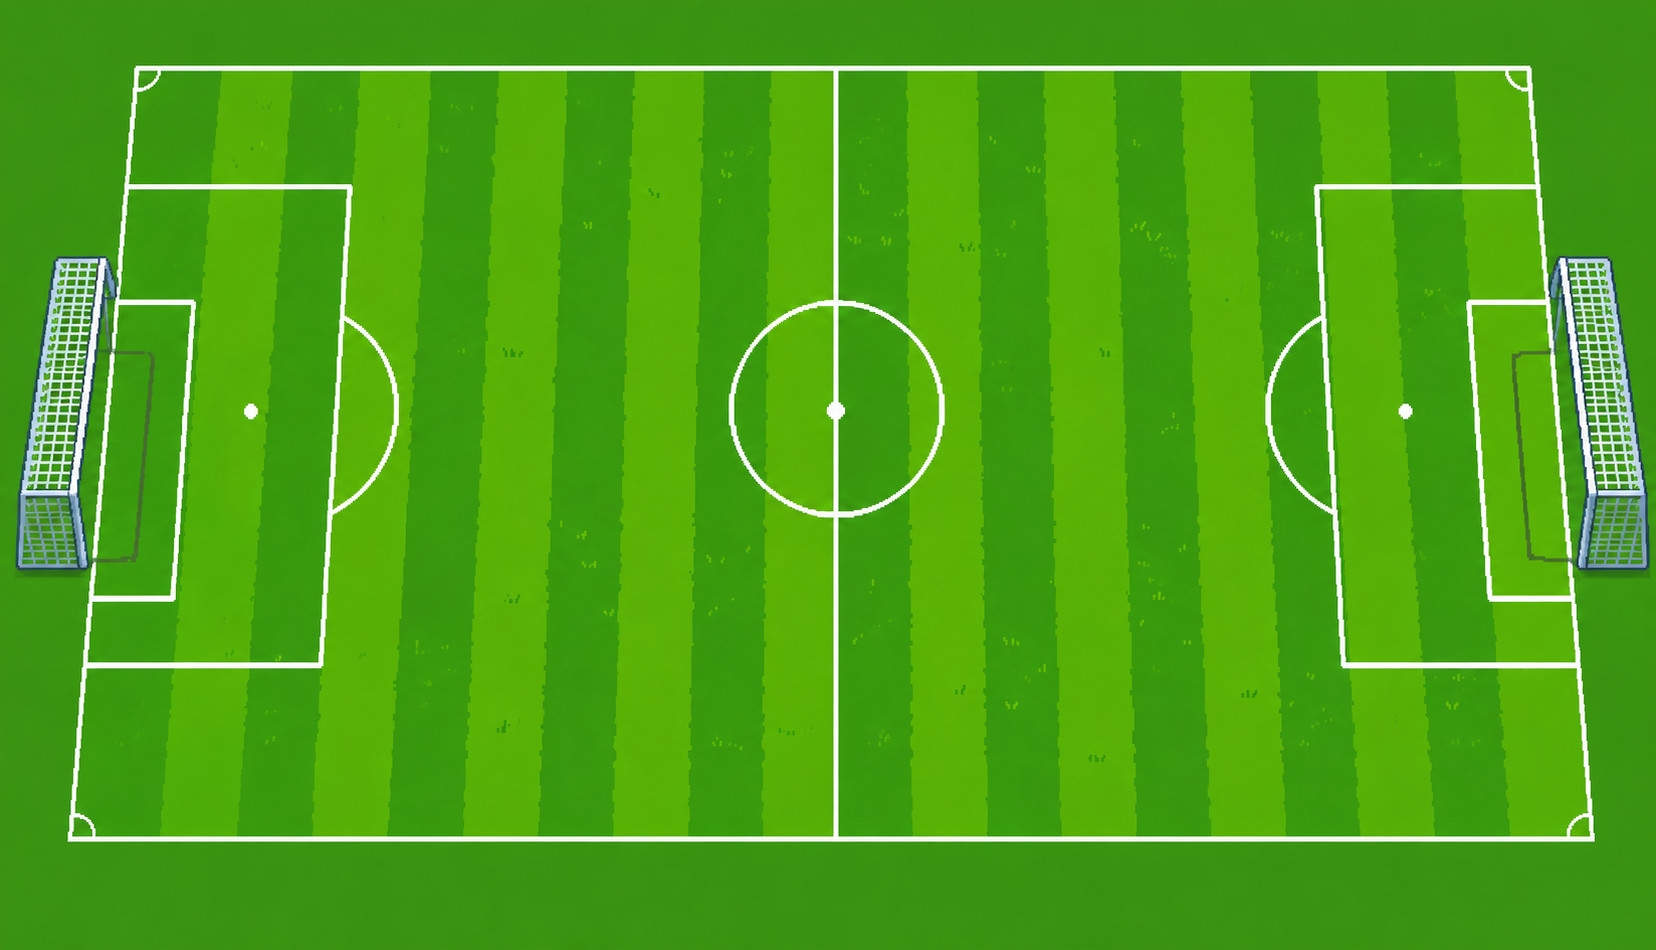
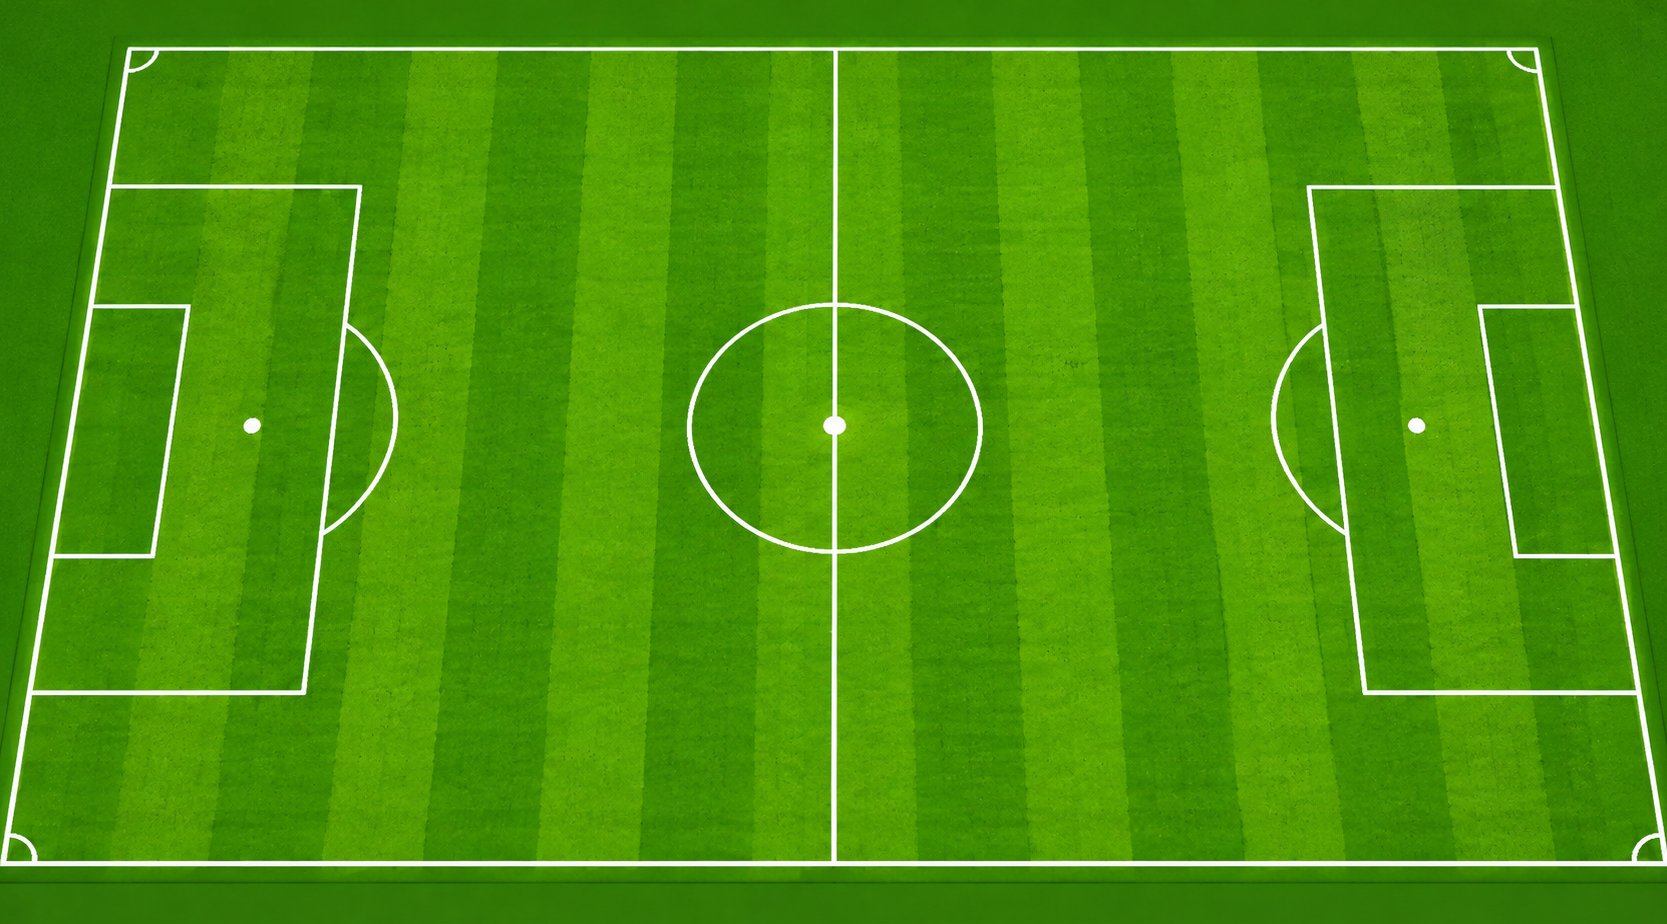
9월 5일

diff --git a/project.py b/project.py
@@ -13,15 +13,29 @@ except:
 root = tk.Tk()
 root.title("Soccer Game")
 
+fullscreen = False
+
+def toggle_fullscreen(event=None):
+    global fullscreen
+
+    fullscreen = not fullscreen
+    root.attributes("-fullscreen", fullscreen)
+    
+root.bind("<F11>", toggle_fullscreen)
+
+
+
+    
 try:
     player_right = tk.PhotoImage(file="player_right.png")
     player_left = tk.PhotoImage(file="player_left.png")
 
-    WINDOW_WIDTH = 1655
-    WINDOW_HEIGHT = 950
+    WINDOW_WIDTH = 1667
+    WINDOW_HEIGHT = 924
 
     root.geometry(f"{WINDOW_WIDTH}x{WINDOW_HEIGHT}")
     root.resizable(False, False)
+    
 
     canvas = tk.Canvas(
         root,
@@ -51,6 +65,14 @@ try:
     )
 
     ball_image = ball_original.subsample(5, 5)
+    
+    goal_left_image = tk.PhotoImage(
+    file="C:/Users/APP_11/Documents/GitHub/game/left_goal.png"
+    ).subsample(4, 4)
+
+    goal_right_image = tk.PhotoImage(
+    file="C:/Users/APP_11/Documents/GitHub/game/right_goal.png"
+    ).subsample(2, 2) 
 
 except Exception as e:
     print(e)
@@ -259,6 +281,26 @@ def update_ball():
             ball_vy *= -0.5
 
     root.after(16, update_ball)
+    
+LEFT_GOAL_X = 95
+LEFT_GOAL_Y = 402
+
+RIGHT_GOAL_X = 1667
+RIGHT_GOAL_Y = 462
+
+left_goal = canvas.create_image(
+    LEFT_GOAL_X,
+    LEFT_GOAL_Y,
+    anchor=tk.CENTER,
+    image=goal_left_image
+)
+
+right_goal = canvas.create_image(
+    RIGHT_GOAL_X,
+    RIGHT_GOAL_Y,
+    anchor=tk.CENTER,
+    image=goal_right_image
+)
 
 
 def game_key(event):
@@ -277,3 +319,4 @@ root.focus_force()
 update_ball()
 
 root.mainloop()
+
